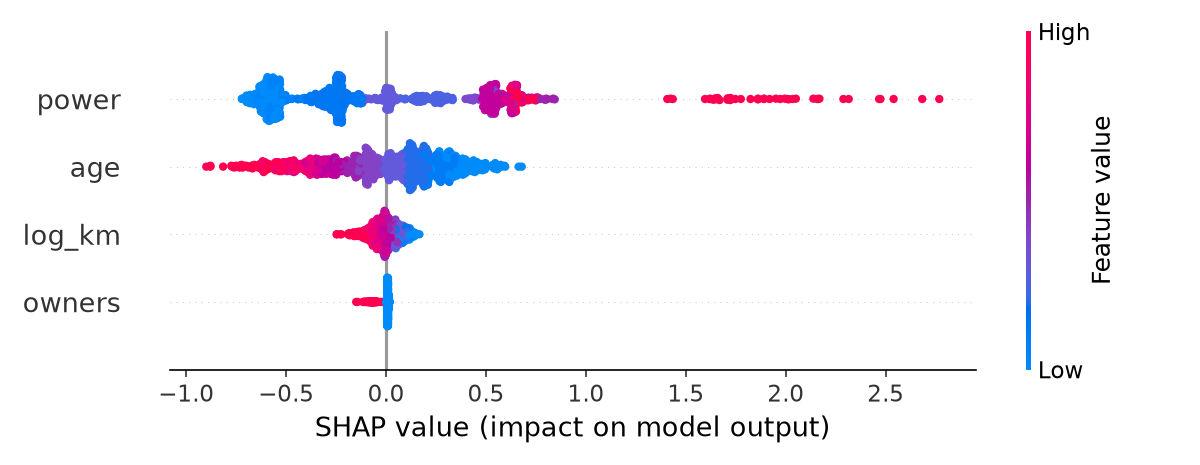
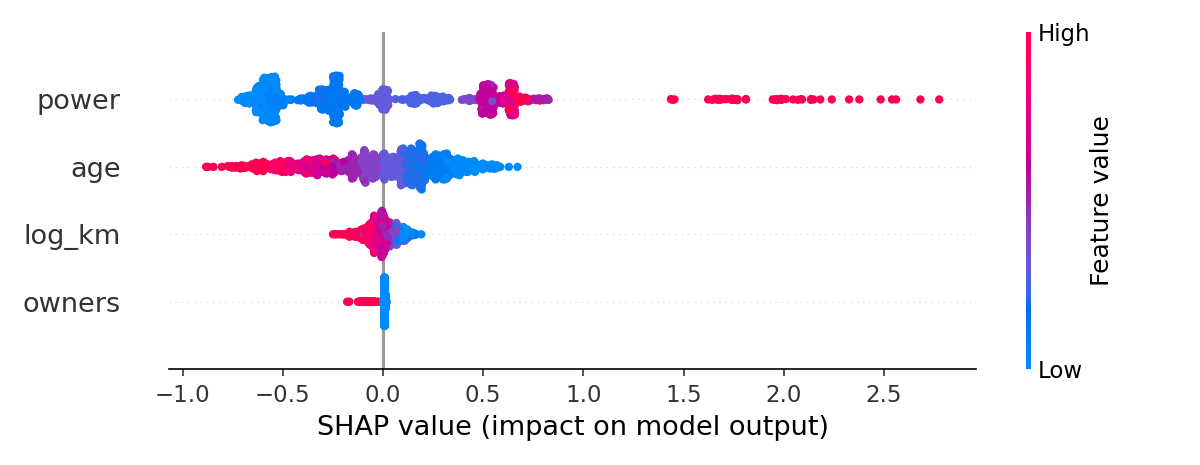
Colab outputs as official figures; report drafted

diff --git a/PROGRESS.md b/PROGRESS.md
@@ -83,3 +83,6 @@ docs/               ROADMAP.md, DATASETS.md, LITERATURE_SURVEY.md
   - Base paper: full text paywalled; read the public IEEE page → `docs/BASE_PAPER.md`. Six authors (Mahmud, Revathi were missing), DOI 10.1109/ICDSNS62112.2024.10691304. We replicate its four models instead.
   - **One-click Colab notebook** `colab/ResaleIQ_pipeline.ipynb` (+ data zip `colab/resaleiq_colab_data.zip`): all modules incl. base-paper replication, 2026 test, EV regression, SHAP. Executed locally in 45 s → `colab/ResaleIQ_pipeline_executed.ipynb`, figures in `docs/figures/colab/`. Base paper's Decision Tree R² 0.842 vs our XGBoost 0.919 on the same split.
   - Title → "Used Two-Wheeler Resale Price Prediction with EV Depreciation Analysis". Demo: local only.
+- **2026-11-13 — Colab run + report.** Kartik ran the notebook in Colab; outputs match the local run (EV results identical; others within 0.02 R²). Colab outputs are now the official figures (`docs/figures/colab/`). Colab numbers: XGBoost R² 0.921, MAE ₹10,422, 79.8% within ±20%; base paper's DT R² 0.864, 64.8%.
+  - **Report drafted** as a Claude Doc: https://claude.ai/artifact/9pWZr2uQD22ZeVSLTvANsx — abstract, problem, objectives, 19-paper survey + gap, datasets, methodology (flowchart), implementation (architecture diagram), results (model table, 2026 test chart, SHAP chart), EV vs petrol (chart + 4-check table + 5 Nov vs 12 Nov comparison), road tax side check, limitations, conclusion, references. Exportable to Word/PDF.
+  - To do (Kartik): read through, fill author lists for survey rows marked "by title", confirm the ⚠ paper years, export.
